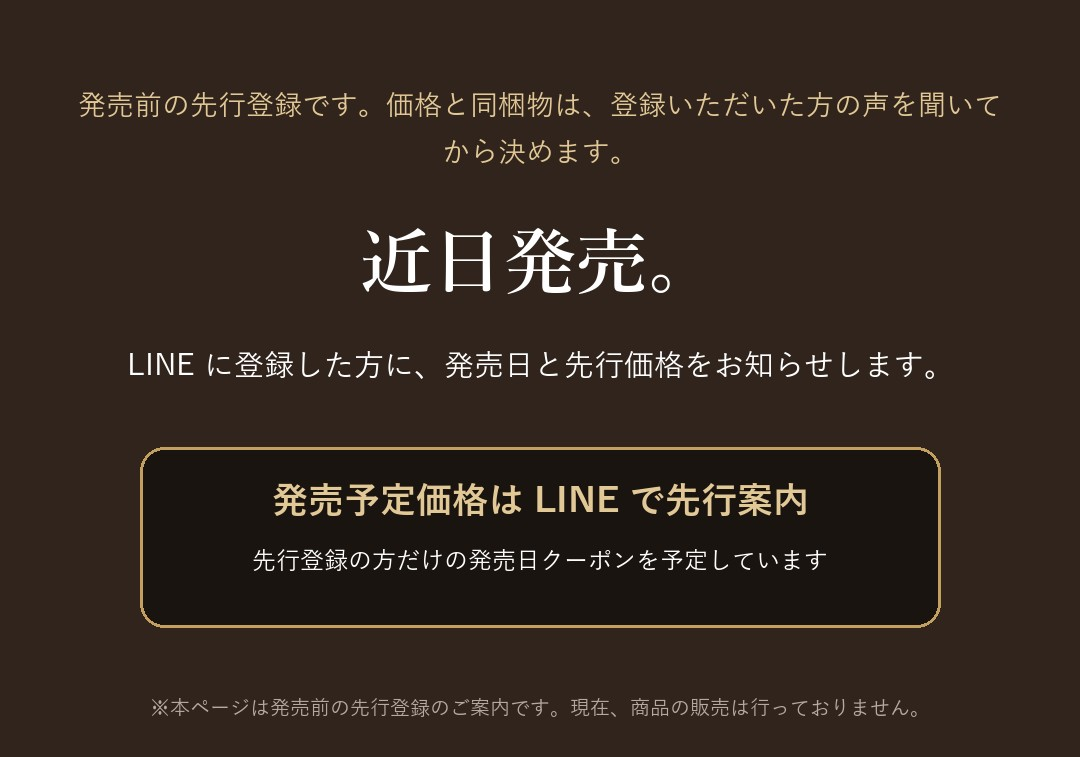
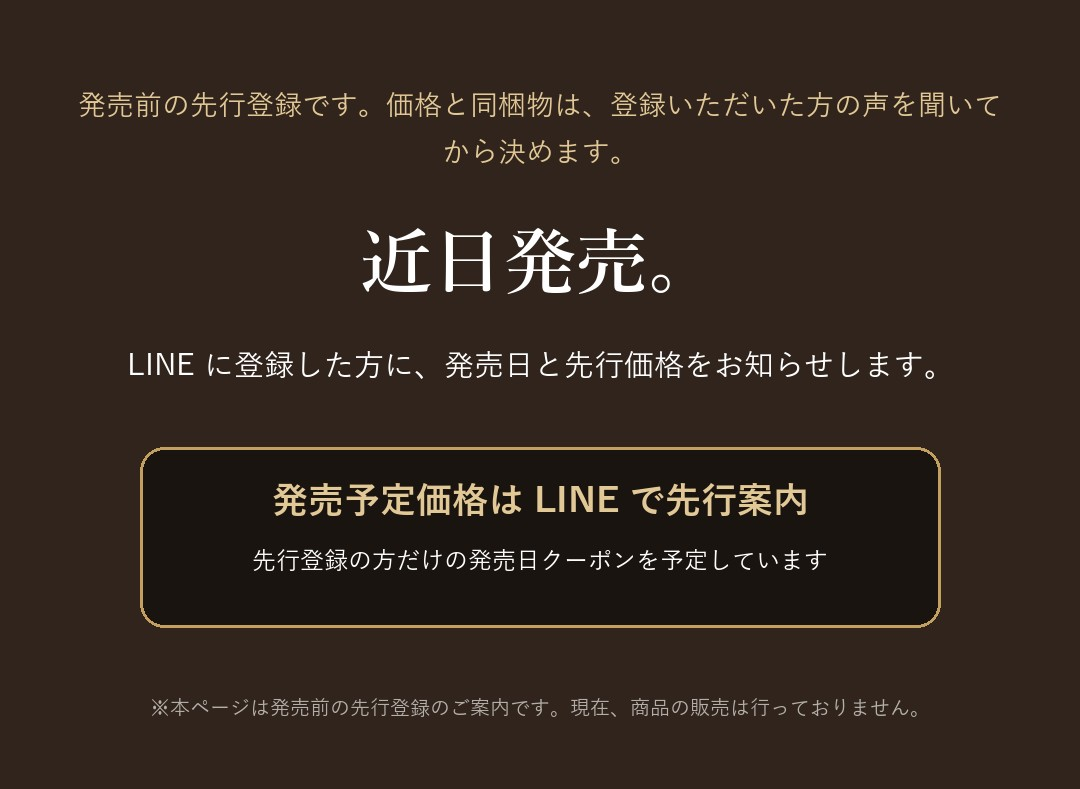
stone-a / bowl-a / nook-a を追加、chess-a を共通スクリプトで再生成

diff --git a/bowl-a/index.html b/bowl-a/index.html
@@ -1,0 +1,76 @@
+<!doctype html>
+<html lang="ja">
+<head>
+<meta charset="utf-8">
+<meta name="viewport" content="width=device-width,initial-scale=1">
+<meta name="robots" content="noindex">
+<title>叩かなくても、鳴り続ける。｜電子シンギングボウル 先行登録</title>
+<meta name="description" content="寝る前5分、枕元で鉢の音だけを。9つの音と4段階タイマー。発売前の先行登録(LINE)のご案内です。">
+<meta property="og:title" content="叩かなくても、鳴り続ける。｜電子シンギングボウル">
+<meta property="og:image" content="lp01.jpg">
+<style>
+*{box-sizing:border-box;margin:0;padding:0}
+body{background:#16181e;color:#1c1e24;font-family:"Hiragino Kaku Gothic ProN","Yu Gothic",Meiryo,sans-serif;line-height:1.8}
+main{max-width:540px;margin:0 auto;background:#f3f2ee;padding-bottom:96px}
+main img{display:block;width:100%;height:auto}
+.info{padding:40px 20px 24px;font-size:13px;background:#f3f2ee}
+.info h2{font-size:16px;margin-bottom:12px;color:#2c303c}
+.info table{width:100%;border-collapse:collapse;margin-bottom:12px}
+.info th,.info td{border-bottom:1px solid #DDD6CA;padding:8px 4px;text-align:left;vertical-align:top}
+.info th{width:34%;font-weight:600;white-space:nowrap}
+.info a{color:#2c303c}
+.note{color:#6c6c70;font-size:12px;margin:8px 0 16px}
+details{background:#fff;border-radius:8px;padding:12px 14px;margin-bottom:16px}
+summary{cursor:pointer;font-weight:600}
+details h3{font-size:13px;margin:12px 0 4px}
+details ul{padding-left:18px}
+.copy{text-align:center;color:#9A9088;font-size:11px}
+.cta{position:fixed;left:0;right:0;bottom:0;padding:10px 16px calc(10px + env(safe-area-inset-bottom));background:rgba(20,16,14,.94);box-shadow:0 -2px 10px rgba(0,0,0,.2);text-align:center;z-index:10}
+.cta a{display:block;max-width:508px;margin:0 auto;background:#06C755;color:#fff;font-weight:700;font-size:17px;text-decoration:none;border-radius:999px;padding:14px 10px}
+.cta small{display:block;font-size:11px;color:#D8CCBC;margin-top:4px}
+</style>
+
+</head>
+<body>
+<main>
+<img src="lp01.jpg?v=202611040003" alt="一番上">
+<img src="lp02.jpg?v=202611040003" alt="場面" loading="lazy">
+<img src="lp03.jpg?v=202611040003" alt="なぜ" loading="lazy">
+<img src="lp04.jpg?v=202611040003" alt="ディテール" loading="lazy">
+<img src="lp05.jpg?v=202611040003" alt="一台のこと" loading="lazy">
+<img src="lp06.jpg?v=202611040003" alt="贈る" loading="lazy">
+<img src="lp07.jpg?v=202611040003" alt="発売と価格" loading="lazy">
+<img src="lp08.jpg?v=202611040003" alt="なぜ先行登録" loading="lazy">
+<img src="lp09.jpg?v=202611040003" alt="安心して登録するために" loading="lazy">
+<a href="#" class="line-link"><img src="lp10.jpg?v=202611040003" alt="LINE登録" loading="lazy"></a>
+
+<section class="info">
+  <h2>運営者情報</h2>
+  <table>
+    <tr><th>運営会社</th><td>株式会社L-GM</td></tr>
+    <tr><th>所在地</th><td>神奈川県横浜市都筑区茅ケ崎中央11-5 パスタビル305</td></tr>
+    <tr><th>お問い合わせ</th><td><a href="mailto:yokohama1227@l-gm266.info">yokohama1227@l-gm266.info</a></td></tr>
+    <tr><th>ページの名称</th><td>鳴り続けるシンギングボウル</td></tr>
+  </table>
+  <p class="note">※本ページは発売前の先行登録のご案内です。現在、商品の販売は行っておりません。</p>
+  <details>
+    <summary>プライバシーポリシー</summary>
+    <p>株式会社L-GM（以下「当社」）は、本ページの先行登録でお預かりする情報を、次のとおり取り扱います。</p>
+    <h3>1. 取得する情報</h3>
+    <ul><li>LINE公式アカウントの友だち追加により当社が確認できる情報（LINEの表示名など）</li>
+    <li>アンケートでご回答いただいた内容</li></ul>
+    <h3>2. 利用する目的</h3>
+    <ul><li>商品の企画・開発（価格・同梱物などの検討）</li><li>発売のご案内、発売日クーポンのご案内などのお知らせ</li><li>お問い合わせへの対応</li></ul>
+    <h3>3. 第三者への提供</h3><p>法令に基づく場合を除き、ご本人の同意なく第三者に提供することはありません。</p>
+    <h3>4. 管理</h3><p>取得した情報は、不正なアクセス・紛失・漏えいが起きないよう適切に管理します。</p>
+    <h3>5. お知らせの停止</h3><p>LINE公式アカウントをブロックすることで、いつでもお知らせを止めることができます。</p>
+    <h3>6. お問い合わせ</h3><p>株式会社L-GM　<a href="mailto:yokohama1227@l-gm266.info">yokohama1227@l-gm266.info</a></p>
+    <p>制定日：2026年11月3日</p>
+  </details>
+  <p class="copy">© 2026 株式会社L-GM</p>
+</section>
+
+</main>
+<div class="cta"><a href="#" class="line-link">LINE で先行価格を受け取る</a><small>登録無料・いつでも解除OK</small></div>
+</body>
+</html>

diff --git a/stone-a/index.html b/stone-a/index.html
@@ -1,0 +1,76 @@
+<!doctype html>
+<html lang="ja">
+<head>
+<meta charset="utf-8">
+<meta name="viewport" content="width=device-width,initial-scale=1">
+<meta name="robots" content="noindex">
+<title>転職の日に、黄水晶を。｜7A級 黄水晶ブレスレット 先行登録</title>
+<meta name="description" content="願いから選ぶ天然石ブレスレット。7A級の黄水晶・鑑定書つき。発売前の先行登録(LINE)のご案内です。">
+<meta property="og:title" content="転職の日に、黄水晶を。｜7A級 黄水晶ブレスレット">
+<meta property="og:image" content="lp01.jpg">
+<style>
+*{box-sizing:border-box;margin:0;padding:0}
+body{background:#22162c;color:#241a28;font-family:"Hiragino Kaku Gothic ProN","Yu Gothic",Meiryo,sans-serif;line-height:1.8}
+main{max-width:540px;margin:0 auto;background:#f7f3ee;padding-bottom:96px}
+main img{display:block;width:100%;height:auto}
+.info{padding:40px 20px 24px;font-size:13px;background:#f7f3ee}
+.info h2{font-size:16px;margin-bottom:12px;color:#3e284e}
+.info table{width:100%;border-collapse:collapse;margin-bottom:12px}
+.info th,.info td{border-bottom:1px solid #DDD6CA;padding:8px 4px;text-align:left;vertical-align:top}
+.info th{width:34%;font-weight:600;white-space:nowrap}
+.info a{color:#3e284e}
+.note{color:#70666e;font-size:12px;margin:8px 0 16px}
+details{background:#fff;border-radius:8px;padding:12px 14px;margin-bottom:16px}
+summary{cursor:pointer;font-weight:600}
+details h3{font-size:13px;margin:12px 0 4px}
+details ul{padding-left:18px}
+.copy{text-align:center;color:#9A9088;font-size:11px}
+.cta{position:fixed;left:0;right:0;bottom:0;padding:10px 16px calc(10px + env(safe-area-inset-bottom));background:rgba(20,16,14,.94);box-shadow:0 -2px 10px rgba(0,0,0,.2);text-align:center;z-index:10}
+.cta a{display:block;max-width:508px;margin:0 auto;background:#06C755;color:#fff;font-weight:700;font-size:17px;text-decoration:none;border-radius:999px;padding:14px 10px}
+.cta small{display:block;font-size:11px;color:#D8CCBC;margin-top:4px}
+</style>
+
+</head>
+<body>
+<main>
+<img src="lp01.jpg?v=202611040000" alt="一番上">
+<img src="lp02.jpg?v=202611040000" alt="場面" loading="lazy">
+<img src="lp03.jpg?v=202611040000" alt="なぜ" loading="lazy">
+<img src="lp04.jpg?v=202611040000" alt="ディテール" loading="lazy">
+<img src="lp05.jpg?v=202611040000" alt="一台のこと" loading="lazy">
+<img src="lp06.jpg?v=202611040000" alt="贈る" loading="lazy">
+<img src="lp07.jpg?v=202611040000" alt="発売と価格" loading="lazy">
+<img src="lp08.jpg?v=202611040000" alt="なぜ先行登録" loading="lazy">
+<img src="lp09.jpg?v=202611040000" alt="安心して登録するために" loading="lazy">
+<a href="#" class="line-link"><img src="lp10.jpg?v=202611040000" alt="LINE登録" loading="lazy"></a>
+
+<section class="info">
+  <h2>運営者情報</h2>
+  <table>
+    <tr><th>運営会社</th><td>株式会社L-GM</td></tr>
+    <tr><th>所在地</th><td>神奈川県横浜市都筑区茅ケ崎中央11-5 パスタビル305</td></tr>
+    <tr><th>お問い合わせ</th><td><a href="mailto:yokohama1227@l-gm266.info">yokohama1227@l-gm266.info</a></td></tr>
+    <tr><th>ページの名称</th><td>願いで選ぶ天然石</td></tr>
+  </table>
+  <p class="note">※本ページは発売前の先行登録のご案内です。現在、商品の販売は行っておりません。</p>
+  <details>
+    <summary>プライバシーポリシー</summary>
+    <p>株式会社L-GM（以下「当社」）は、本ページの先行登録でお預かりする情報を、次のとおり取り扱います。</p>
+    <h3>1. 取得する情報</h3>
+    <ul><li>LINE公式アカウントの友だち追加により当社が確認できる情報（LINEの表示名など）</li>
+    <li>アンケートでご回答いただいた内容</li></ul>
+    <h3>2. 利用する目的</h3>
+    <ul><li>商品の企画・開発（価格・同梱物などの検討）</li><li>発売のご案内、発売日クーポンのご案内などのお知らせ</li><li>お問い合わせへの対応</li></ul>
+    <h3>3. 第三者への提供</h3><p>法令に基づく場合を除き、ご本人の同意なく第三者に提供することはありません。</p>
+    <h3>4. 管理</h3><p>取得した情報は、不正なアクセス・紛失・漏えいが起きないよう適切に管理します。</p>
+    <h3>5. お知らせの停止</h3><p>LINE公式アカウントをブロックすることで、いつでもお知らせを止めることができます。</p>
+    <h3>6. お問い合わせ</h3><p>株式会社L-GM　<a href="mailto:yokohama1227@l-gm266.info">yokohama1227@l-gm266.info</a></p>
+    <p>制定日：2026年11月3日</p>
+  </details>
+  <p class="copy">© 2026 株式会社L-GM</p>
+</section>
+
+</main>
+<div class="cta"><a href="#" class="line-link">LINE で先行価格を受け取る</a><small>登録無料・いつでも解除OK</small></div>
+</body>
+</html>

diff --git a/nook-a/index.html b/nook-a/index.html
@@ -1,0 +1,76 @@
+<!doctype html>
+<html lang="ja">
+<head>
+<meta charset="utf-8">
+<meta name="viewport" content="width=device-width,initial-scale=1">
+<meta name="robots" content="noindex">
+<title>本棚の中に、小さな灯りの街を。｜ブックヌーク 先行登録</title>
+<meta name="description" content="本と本の間に差し込む、灯りのついた組み立てキット。発売前の先行登録(LINE)のご案内です。">
+<meta property="og:title" content="本棚の中に、小さな灯りの街を。｜ブックヌーク">
+<meta property="og:image" content="lp01.jpg">
+<style>
+*{box-sizing:border-box;margin:0;padding:0}
+body{background:#1e1814;color:#201a16;font-family:"Hiragino Kaku Gothic ProN","Yu Gothic",Meiryo,sans-serif;line-height:1.8}
+main{max-width:540px;margin:0 auto;background:#f6f1e9;padding-bottom:96px}
+main img{display:block;width:100%;height:auto}
+.info{padding:40px 20px 24px;font-size:13px;background:#f6f1e9}
+.info h2{font-size:16px;margin-bottom:12px;color:#3a2c22}
+.info table{width:100%;border-collapse:collapse;margin-bottom:12px}
+.info th,.info td{border-bottom:1px solid #DDD6CA;padding:8px 4px;text-align:left;vertical-align:top}
+.info th{width:34%;font-weight:600;white-space:nowrap}
+.info a{color:#3a2c22}
+.note{color:#70645a;font-size:12px;margin:8px 0 16px}
+details{background:#fff;border-radius:8px;padding:12px 14px;margin-bottom:16px}
+summary{cursor:pointer;font-weight:600}
+details h3{font-size:13px;margin:12px 0 4px}
+details ul{padding-left:18px}
+.copy{text-align:center;color:#9A9088;font-size:11px}
+.cta{position:fixed;left:0;right:0;bottom:0;padding:10px 16px calc(10px + env(safe-area-inset-bottom));background:rgba(20,16,14,.94);box-shadow:0 -2px 10px rgba(0,0,0,.2);text-align:center;z-index:10}
+.cta a{display:block;max-width:508px;margin:0 auto;background:#06C755;color:#fff;font-weight:700;font-size:17px;text-decoration:none;border-radius:999px;padding:14px 10px}
+.cta small{display:block;font-size:11px;color:#D8CCBC;margin-top:4px}
+</style>
+
+</head>
+<body>
+<main>
+<img src="lp01.jpg?v=202611040009" alt="一番上">
+<img src="lp02.jpg?v=202611040009" alt="場面" loading="lazy">
+<img src="lp03.jpg?v=202611040009" alt="なぜ" loading="lazy">
+<img src="lp04.jpg?v=202611040009" alt="ディテール" loading="lazy">
+<img src="lp05.jpg?v=202611040009" alt="一台のこと" loading="lazy">
+<img src="lp06.jpg?v=202611040009" alt="贈る" loading="lazy">
+<img src="lp07.jpg?v=202611040009" alt="発売と価格" loading="lazy">
+<img src="lp08.jpg?v=202611040009" alt="なぜ先行登録" loading="lazy">
+<img src="lp09.jpg?v=202611040009" alt="安心して登録するために" loading="lazy">
+<a href="#" class="line-link"><img src="lp10.jpg?v=202611040009" alt="LINE登録" loading="lazy"></a>
+
+<section class="info">
+  <h2>運営者情報</h2>
+  <table>
+    <tr><th>運営会社</th><td>株式会社L-GM</td></tr>
+    <tr><th>所在地</th><td>神奈川県横浜市都筑区茅ケ崎中央11-5 パスタビル305</td></tr>
+    <tr><th>お問い合わせ</th><td><a href="mailto:yokohama1227@l-gm266.info">yokohama1227@l-gm266.info</a></td></tr>
+    <tr><th>ページの名称</th><td>本棚の中の灯り</td></tr>
+  </table>
+  <p class="note">※本ページは発売前の先行登録のご案内です。現在、商品の販売は行っておりません。</p>
+  <details>
+    <summary>プライバシーポリシー</summary>
+    <p>株式会社L-GM（以下「当社」）は、本ページの先行登録でお預かりする情報を、次のとおり取り扱います。</p>
+    <h3>1. 取得する情報</h3>
+    <ul><li>LINE公式アカウントの友だち追加により当社が確認できる情報（LINEの表示名など）</li>
+    <li>アンケートでご回答いただいた内容</li></ul>
+    <h3>2. 利用する目的</h3>
+    <ul><li>商品の企画・開発（価格・同梱物などの検討）</li><li>発売のご案内、発売日クーポンのご案内などのお知らせ</li><li>お問い合わせへの対応</li></ul>
+    <h3>3. 第三者への提供</h3><p>法令に基づく場合を除き、ご本人の同意なく第三者に提供することはありません。</p>
+    <h3>4. 管理</h3><p>取得した情報は、不正なアクセス・紛失・漏えいが起きないよう適切に管理します。</p>
+    <h3>5. お知らせの停止</h3><p>LINE公式アカウントをブロックすることで、いつでもお知らせを止めることができます。</p>
+    <h3>6. お問い合わせ</h3><p>株式会社L-GM　<a href="mailto:yokohama1227@l-gm266.info">yokohama1227@l-gm266.info</a></p>
+    <p>制定日：2026年11月3日</p>
+  </details>
+  <p class="copy">© 2026 株式会社L-GM</p>
+</section>
+
+</main>
+<div class="cta"><a href="#" class="line-link">LINE で先行価格を受け取る</a><small>登録無料・いつでも解除OK</small></div>
+</body>
+</html>

diff --git a/chess-a/index.html b/chess-a/index.html
@@ -25,7 +25,7 @@ summary{cursor:pointer;font-weight:600}
 details h3{font-size:13px;margin:12px 0 4px}
 details ul{padding-left:18px}
 .copy{text-align:center;color:#9A9088;font-size:11px}
-.cta{position:fixed;left:0;right:0;bottom:0;padding:10px 16px calc(10px + env(safe-area-inset-bottom));background:rgba(26,20,16,.94);box-shadow:0 -2px 10px rgba(0,0,0,.2);text-align:center;z-index:10}
+.cta{position:fixed;left:0;right:0;bottom:0;padding:10px 16px calc(10px + env(safe-area-inset-bottom));background:rgba(20,16,14,.94);box-shadow:0 -2px 10px rgba(0,0,0,.2);text-align:center;z-index:10}
 .cta a{display:block;max-width:508px;margin:0 auto;background:#06C755;color:#fff;font-weight:700;font-size:17px;text-decoration:none;border-radius:999px;padding:14px 10px}
 .cta small{display:block;font-size:11px;color:#D8CCBC;margin-top:4px}
 </style>
@@ -33,16 +33,16 @@ details ul{padding-left:18px}
 </head>
 <body>
 <main>
-<img src="lp01.jpg?v=202611032259" alt="一番上">
-<img src="lp02.jpg?v=202611032259" alt="飾った写真" loading="lazy">
-<img src="lp03.jpg?v=202611032259" alt="なぜチェスか" loading="lazy">
-<img src="lp04.jpg?v=202611032259" alt="木目" loading="lazy">
-<img src="lp05.jpg?v=202611032259" alt="一台のこと" loading="lazy">
-<img src="lp06.jpg?v=202611032259" alt="贈る" loading="lazy">
-<img src="lp07.jpg?v=202611032259" alt="発売と価格" loading="lazy">
-<img src="lp08.jpg?v=202611032259" alt="なぜ先行登録" loading="lazy">
-<img src="lp09.jpg?v=202611032259" alt="安心して登録するために" loading="lazy">
-<a href="#" class="line-link"><img src="lp10.jpg?v=202611032259" alt="LINE登録" loading="lazy"></a>
+<img src="lp01.jpg?v=202611032354" alt="一番上">
+<img src="lp02.jpg?v=202611032354" alt="場面" loading="lazy">
+<img src="lp03.jpg?v=202611032354" alt="なぜ" loading="lazy">
+<img src="lp04.jpg?v=202611032354" alt="ディテール" loading="lazy">
+<img src="lp05.jpg?v=202611032354" alt="一台のこと" loading="lazy">
+<img src="lp06.jpg?v=202611032354" alt="贈る" loading="lazy">
+<img src="lp07.jpg?v=202611032354" alt="発売と価格" loading="lazy">
+<img src="lp08.jpg?v=202611032354" alt="なぜ先行登録" loading="lazy">
+<img src="lp09.jpg?v=202611032354" alt="安心して登録するために" loading="lazy">
+<a href="#" class="line-link"><img src="lp10.jpg?v=202611032354" alt="LINE登録" loading="lazy"></a>
 
 <section class="info">
   <h2>運営者情報</h2>
@@ -50,12 +50,12 @@ details ul{padding-left:18px}
     <tr><th>運営会社</th><td>株式会社L-GM</td></tr>
     <tr><th>所在地</th><td>神奈川県横浜市都筑区茅ケ崎中央11-5 パスタビル305</td></tr>
     <tr><th>お問い合わせ</th><td><a href="mailto:yokohama1227@l-gm266.info">yokohama1227@l-gm266.info</a></td></tr>
-    <tr><th>ブランド名</th><td>書斎に置くチェス</td></tr>
+    <tr><th>ページの名称</th><td>書斎に置くチェス</td></tr>
   </table>
   <p class="note">※本ページは発売前の先行登録のご案内です。現在、商品の販売は行っておりません。</p>
   <details>
     <summary>プライバシーポリシー</summary>
-    <p>株式会社L-GM（以下「当社」）は、書斎に置くチェスの先行登録でお預かりする情報を、次のとおり取り扱います。</p>
+    <p>株式会社L-GM（以下「当社」）は、本ページの先行登録でお預かりする情報を、次のとおり取り扱います。</p>
     <h3>1. 取得する情報</h3>
     <ul><li>LINE公式アカウントの友だち追加により当社が確認できる情報（LINEの表示名など）</li>
     <li>アンケートでご回答いただいた内容</li></ul>
@@ -67,10 +67,10 @@ details ul{padding-left:18px}
     <h3>6. お問い合わせ</h3><p>株式会社L-GM　<a href="mailto:yokohama1227@l-gm266.info">yokohama1227@l-gm266.info</a></p>
     <p>制定日：2026年11月3日</p>
   </details>
-  <p class="copy">© 2026 書斎に置くチェス / 株式会社L-GM</p>
+  <p class="copy">© 2026 株式会社L-GM</p>
 </section>
 
 </main>
-<div class="cta"><a href="#" class="line-link">LINEで先行価格を受け取る</a><small>登録無料・いつでも解除OK</small></div>
+<div class="cta"><a href="#" class="line-link">LINE で先行価格を受け取る</a><small>登録無料・いつでも解除OK</small></div>
 </body>
 </html>
